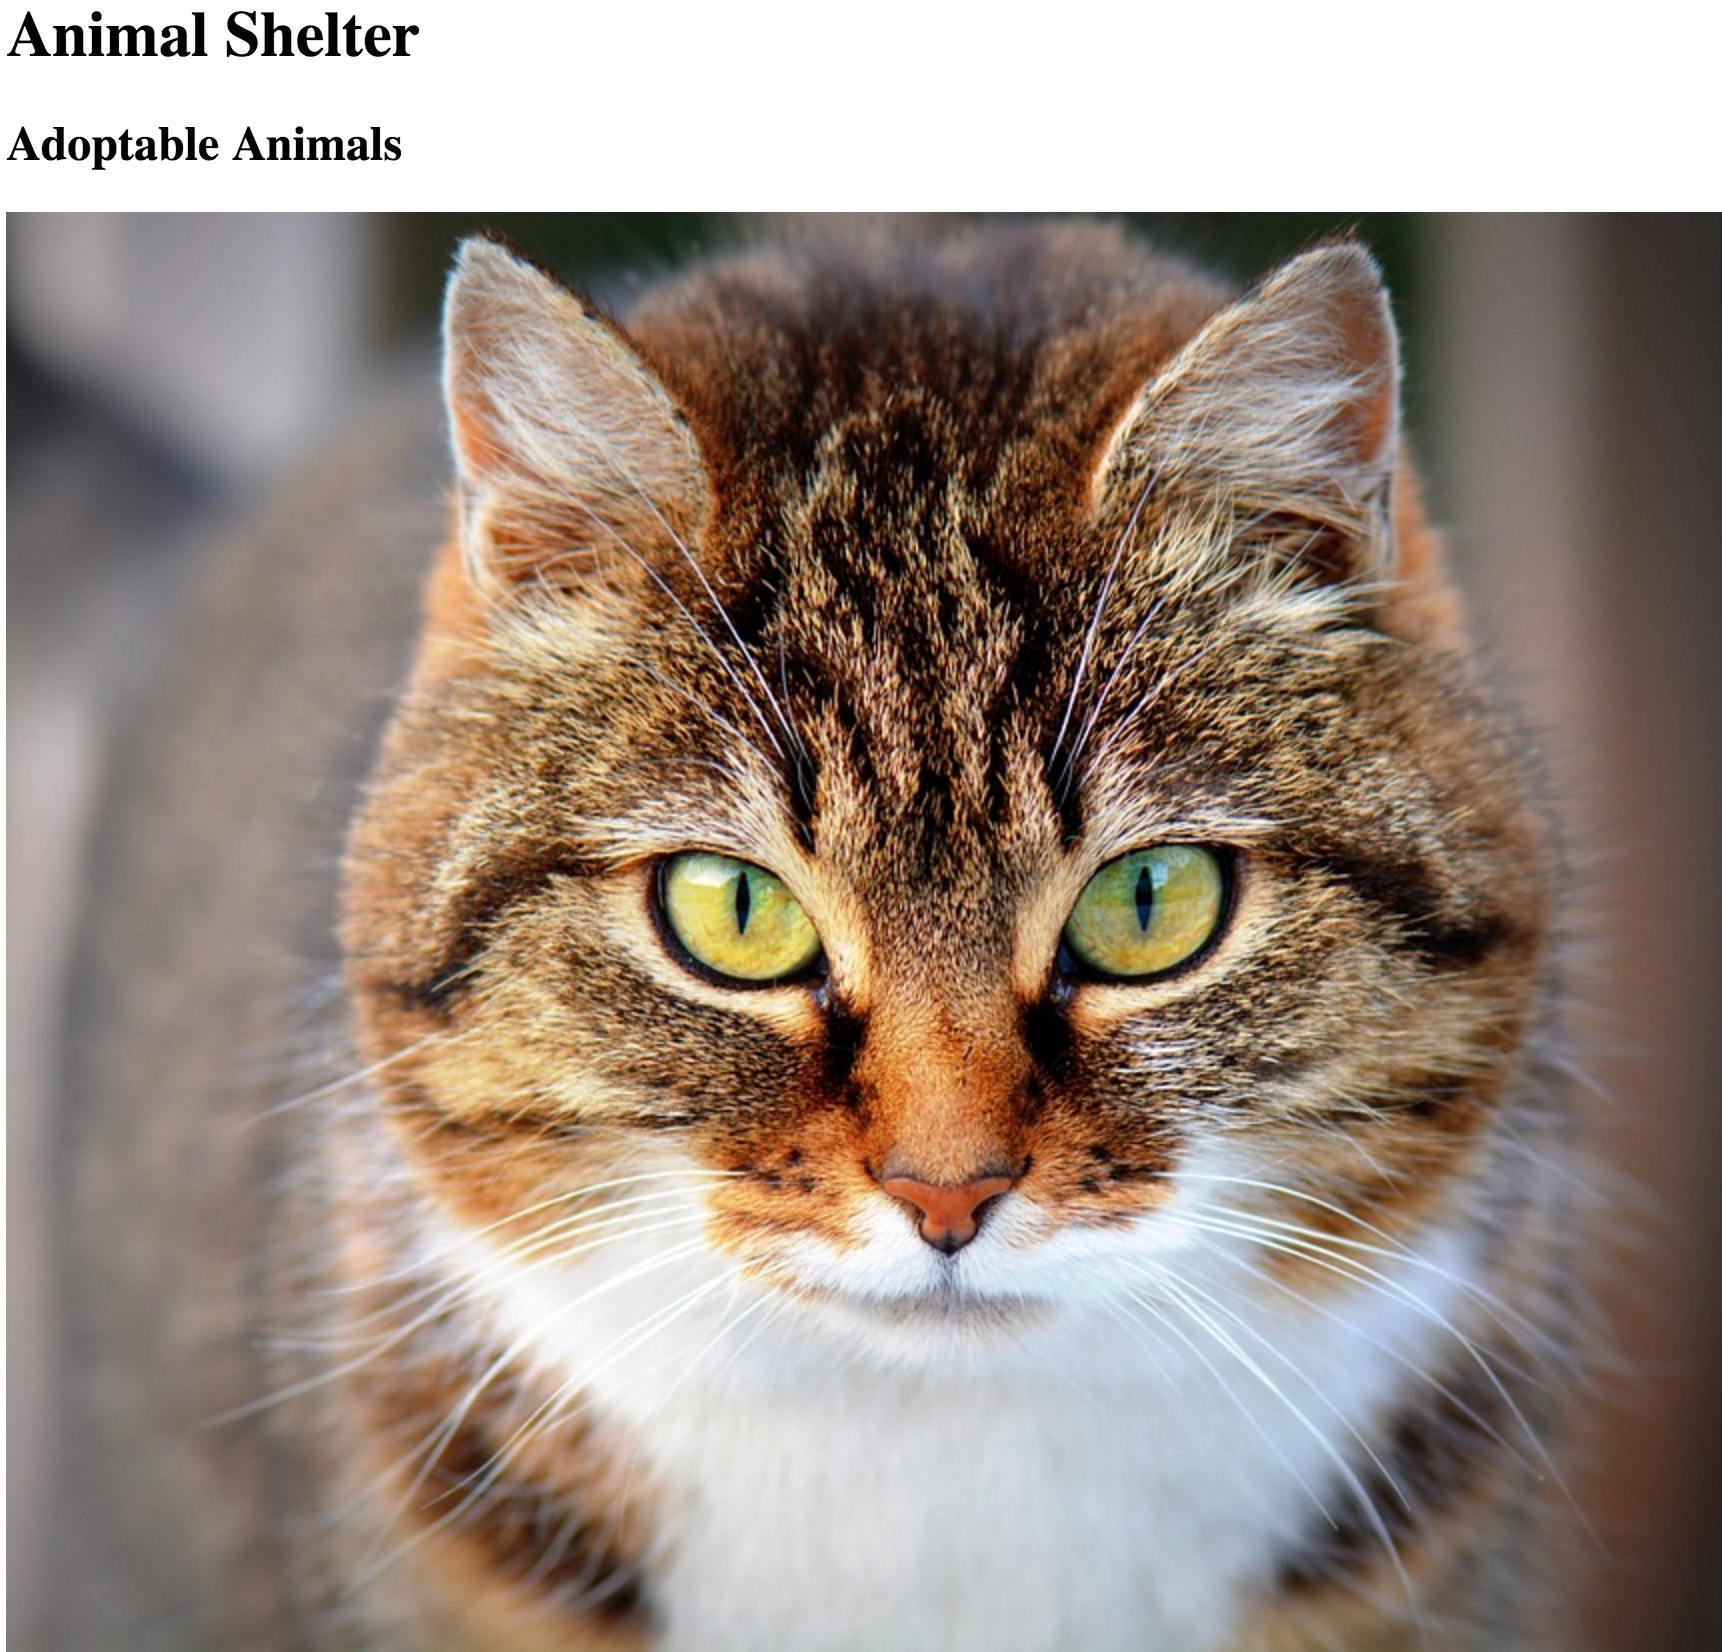
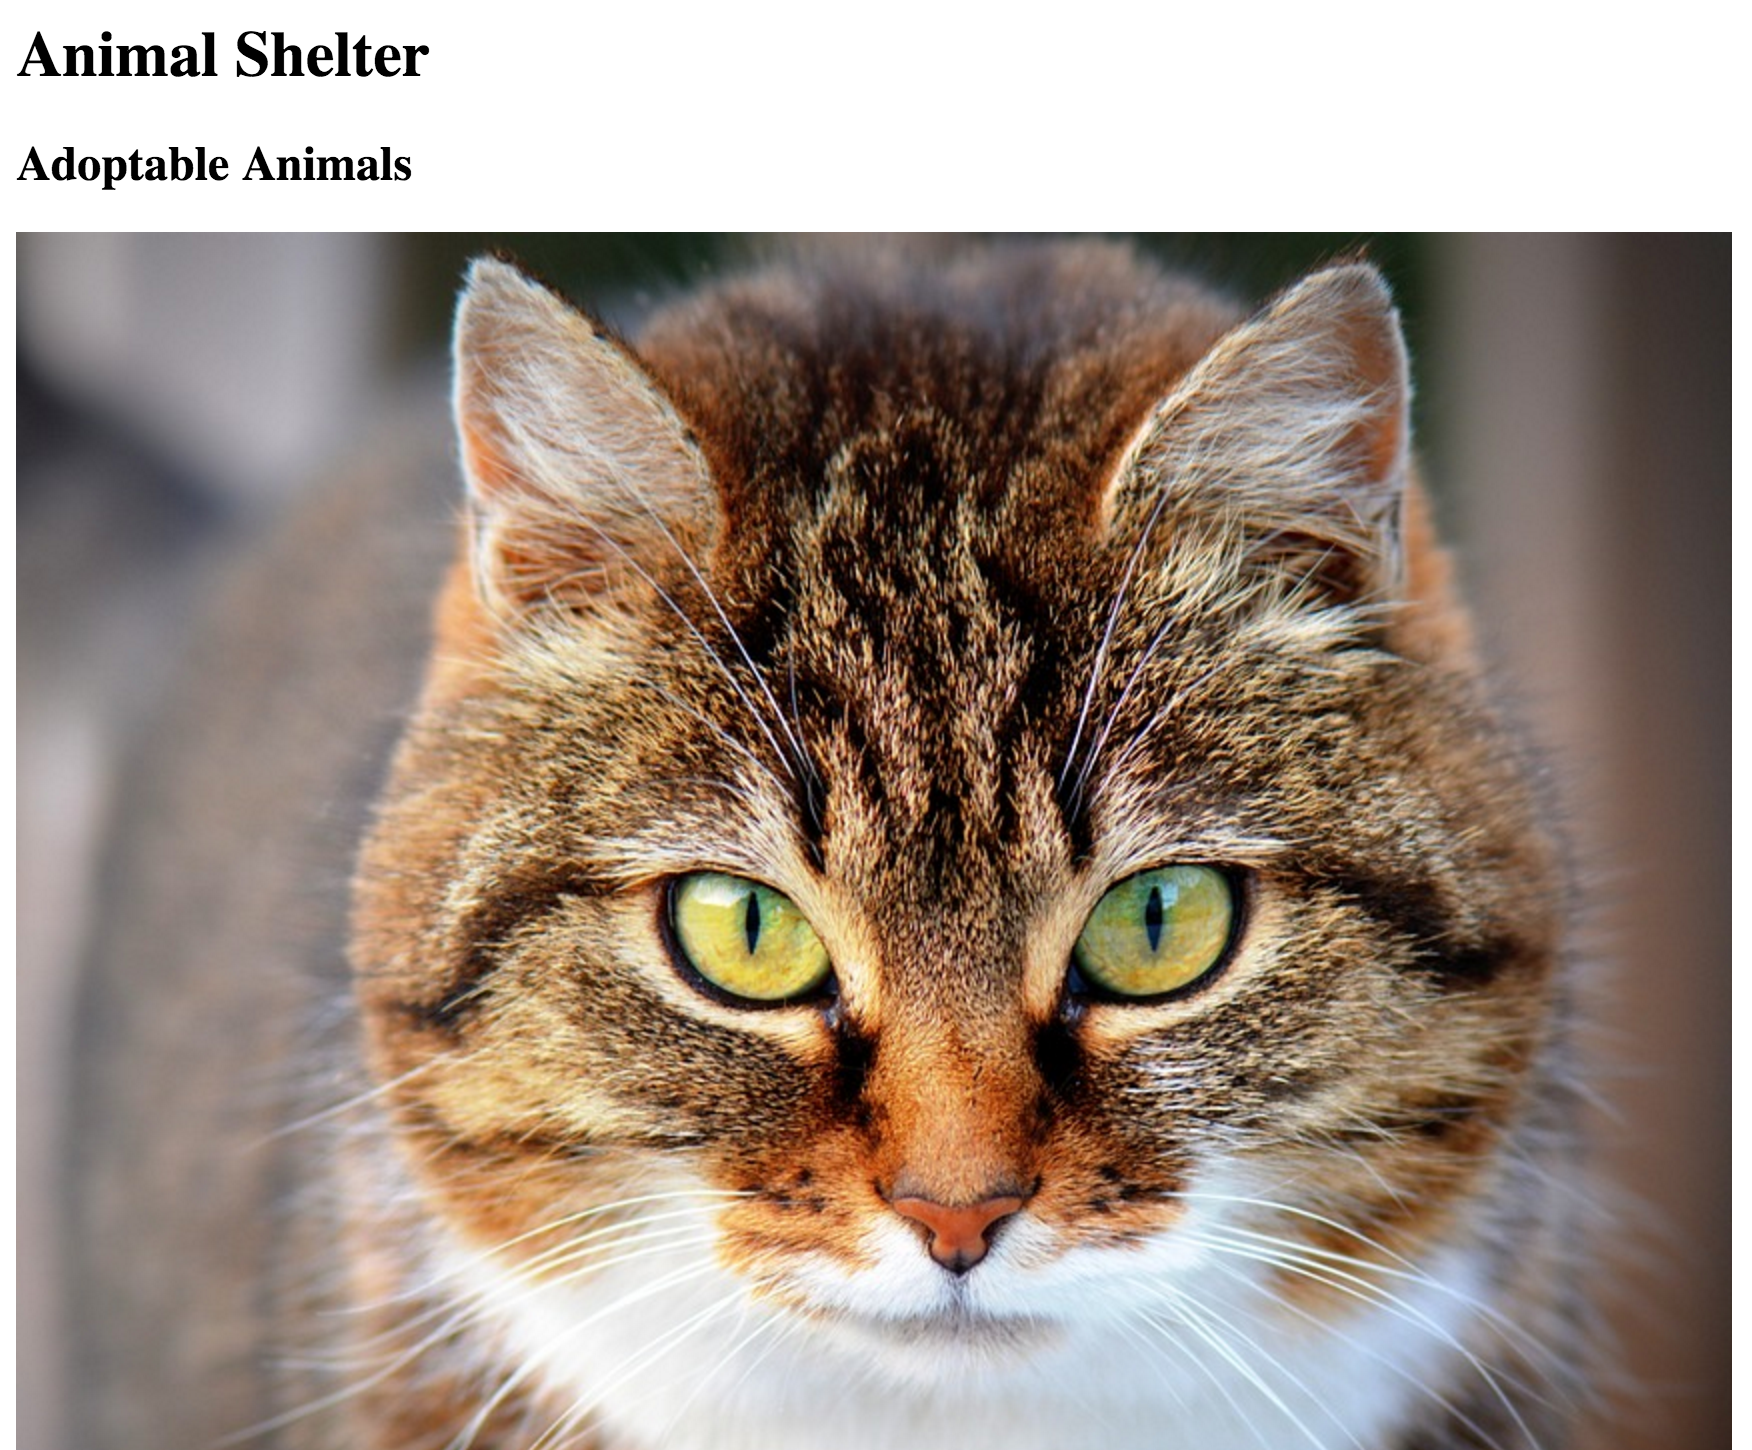
add about page with text and button

diff --git a/index.html b/index.html
@@ -11,7 +11,7 @@
       <header class="page-header">
         <ul class="nav nav-pills pull-right">
           <li><a href="#">Home</a></li>
-          <li><a href="#">About</a></li>
+          <li><a href="about.html">About</a></li>
           <li><a href="#">Contact</a></li>
         </ul>
           <h3>Olivia Hinton</h3>
@@ -25,19 +25,19 @@
 
     <div class="row">
       <div class="col-md-4">
-        <a href="http://ohinton.github.io/private-island-resort/"><img id="project-photos" src="img/project1.png" alt="sample project 1"></a>
+        <a href="http://ohinton.github.io/private-island-resort/"><img class="img-responsive img-thumbnail" src="img/project1.png" alt="sample project 1"></a>
         <h2>Private Island Resort</h2>
         <p>For this website project, Olivia collaborated with fellow Epicodus student Igor Seleznov and used HTML.</p>
       </div>
 
       <div class="col-md-4">
-        <a href="http://ohinton.github.io/interior-decoration/"><img id="project-photos" src="img/project2.png" alt="sample project 2"></a>
+        <a href="http://ohinton.github.io/interior-decoration/"><img class="img-responsive img-thumbnail" src="img/project2.png" alt="sample project 2"></a>
         <h2>Moxie's Interior Decoration Co.</h2>
         <p>For this website project, Olivia collaborated with fellow Epicodus student Tim Jung and used HTML to demonstrate understanding of floats.</p>
       </div>
 
       <div class="col-md-4">
-        <a href="http://ohinton.github.io/animal-shelter/"><img id="project-photos" src="img/project3.png" alt="sample project 3"></a>
+        <a href="http://ohinton.github.io/animal-shelter/"><img class="img-responsive img-thumbnail" src="img/project3.png" alt="sample project 3"></a>
         <h2>Animal Shelter</h2>
         <p>For this website project, Olivia collaborated with fellow Epicodus student Tim Jung and used HTML.</p>
       </div>

diff --git a/about.html b/about.html
@@ -1,0 +1,37 @@
+<!DOCTYPE html>
+<html>
+  <head>
+    <title>Olivia Hinton's Portfolio</title>
+    <meta name="viewport" content="width=device-width, initial-scale=1">
+    <link href="css/bootstrap.min.css" rel="stylesheet" type="text/css" media="screen">
+    <link href="css/mystyles.css" rel="stylesheet" type="text/css" media="screen">
+  </head>
+  <body>
+    <div class="container">
+      <header class="page-header">
+        <ul class="nav nav-pills pull-right">
+          <li><a href="#">Home</a></li>
+          <li><a href="about.html">About</a></li>
+          <li><a href="#">Contact</a></li>
+        </ul>
+          <h3>Olivia Hinton</h3>
+      </header>
+
+      <div class="img">
+        <img src="img/logo.png" alt="Olivia Hinton's logo">
+      </div>
+
+    <div class="about">
+      <h1>About</h1>
+      <p>Olivia is learning how to code through Epicodus, a full-time 5-month web development program based in Portland, Oregon. Upon expected graduation in November 2016, she will be seeking employment in the web development field.</p>
+
+      <h2>Background</h2>
+      <p>Olivia has four years of experience working in the nonprofit sector as an event coordinator and two years of experience working in the newspaper industry as a page designer/copy editor. She graduated in 2010 from the Univeristy of Texas with a degree in Journalism.</p>
+      <p>
+        <a class="btn btn-danger" href="https://www.linkedin.com/in/omhinton">Visit Olivia's LinkedIn profile</a>
+      </p>
+    </div>
+
+
+  </body>
+</html>

diff --git a/css/mystyles.css b/css/mystyles.css
@@ -1,8 +1,13 @@
 .main {
   text-align: center;
+  padding-bottom: 50px;
 }
 
-#project-photos {
-  width: 350px;
-  height: auto;
+.about {
+  text-align: left;
+  padding-bottom: 50px;
+}
+
+.img {
+  text-align: center;
 }
